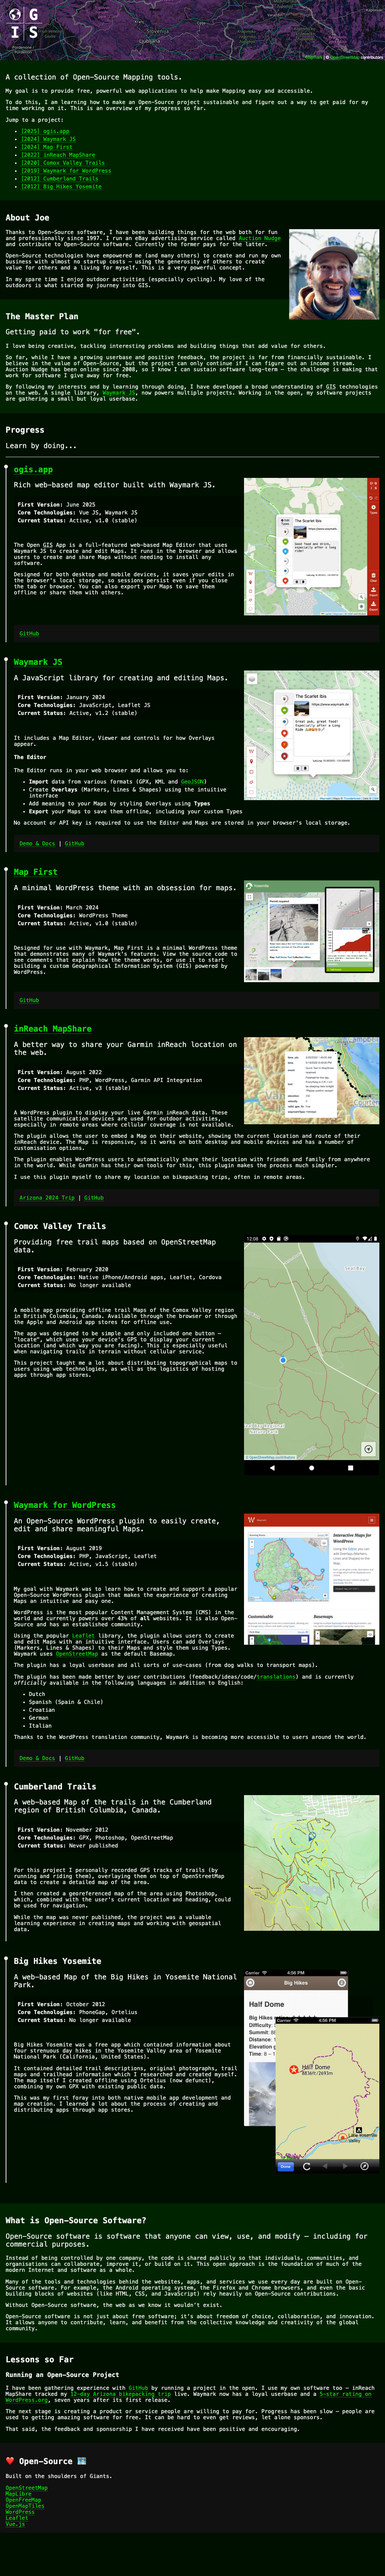
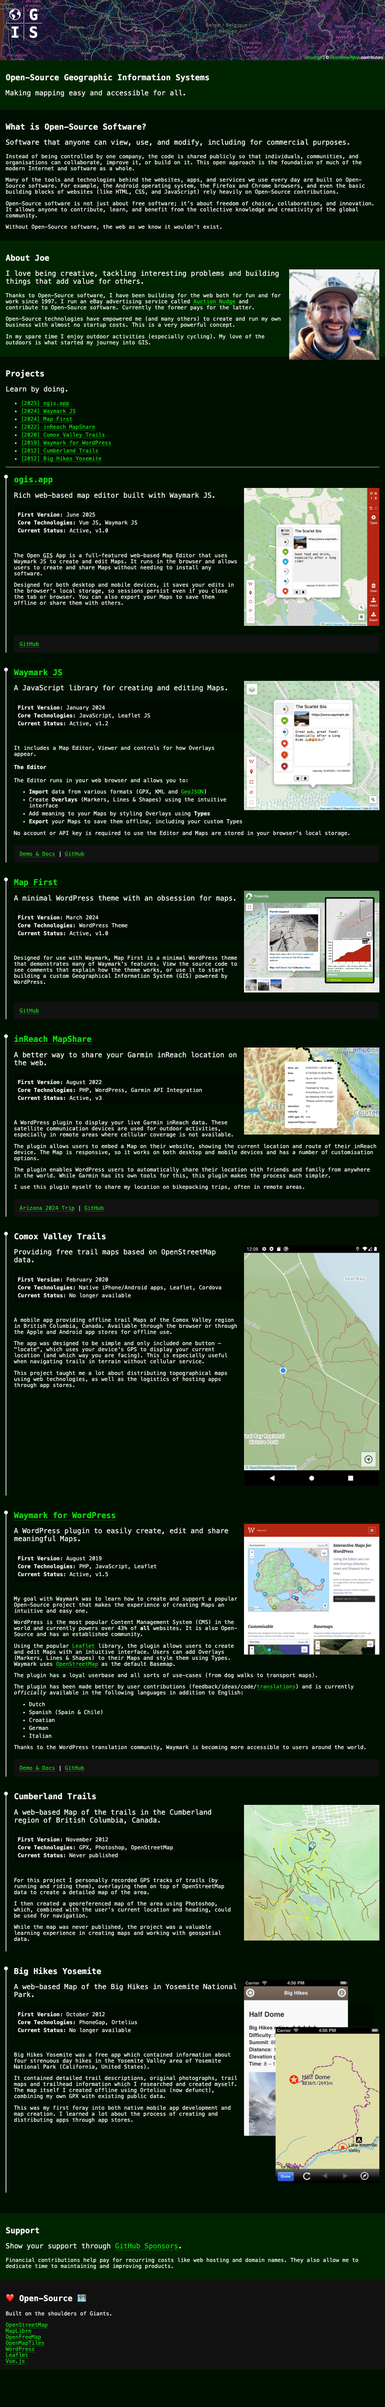
Home wording.

diff --git a/index.html b/index.html
@@ -46,20 +46,91 @@
 
       <main>
         <section>
-          <p class="lead">A collection of Open-Source Mapping tools.</p>
+          <h2>Open-Source Geographic Information Systems</h2>
+          <p class="lead">Making mapping easy and accessible for all.</p>
+        </section>
 
+        <section>
+          <h2>What is Open-Source Software?</h2>
+
+          <p class="lead">
+            Software that anyone can view, use, and modify, including for
+            commercial purposes.
+          </p>
           <p>
-            My goal is to provide free, powerful web applications to help make
-            Mapping easy and accessible.
+            Instead of being controlled by one company, the code is shared
+            publicly so that individuals, communities, and organisations can
+            collaborate, improve it, or build on it. This open approach is the
+            foundation of much of the modern Internet and software as a whole.
           </p>
 
           <p>
-            To do this, I am learning how to make an Open-Source project
-            sustainable and figure out a way to get paid for my time working on
-            it. This is an overview of my progress so far.
+            Many of the tools and technologies behind the websites, apps, and
+            services we use every day are built on Open-Source software. For
+            example, the Android operating system, the Firefox and Chrome
+            browsers, and even the basic building blocks of websites (like HTML,
+            CSS, and JavaScript) rely heavily on Open-Source contributions.
           </p>
 
-          <p>Jump to a project:</p>
+          <p>
+            Open-Source software is not just about free software; it’s about
+            freedom of choice, collaboration, and innovation. It allows anyone
+            to contribute, learn, and benefit from the collective knowledge and
+            creativity of the global community.
+          </p>
+
+          <p>
+            Without Open-Source software, the web as we know it wouldn’t exist.
+          </p>
+        </section>
+
+        <section>
+          <h2>About Joe</h2>
+
+          <p class="lead">
+            <img
+              class="right"
+              src="https://www.morehawes.ca/assets/images/Joe1BW.jpg"
+              alt="Joe Hawes"
+              width="240px"
+              height="240px"
+            />
+            I love being creative, tackling interesting problems and building
+            things that add value for others.
+          </p>
+
+          <p>
+            Thanks to Open-Source software, I have been building for the web
+            both for fun and for work since 1997. I run an eBay advertising
+            service called
+            <a href="https://www.auctionnudge.com/">Auction Nudge</a> and
+            contribute to Open-Source software. Currently the former pays for
+            the latter.
+          </p>
+
+          <p>
+            Open-Source technologies have empowered me (and many others) to
+            create and run my own business with almost no startup costs. This is
+            a very powerful concept.
+          </p>
+
+          <p>
+            In my spare time I enjoy outdoor activities (especially cycling). My
+            love of the outdoors is what started my journey into GIS.
+          </p>
+        </section>
+
+        <!-- 
+
+        ======================================
+        ============== PROGRESS ==============
+        ======================================
+
+        -->
+        <section id="progress">
+          <h2>Projects</h2>
+
+          <p class="lead">Learn by doing.</p>
 
           <ul>
             <li>
@@ -87,117 +158,7 @@
               <a href="#bighikesyosemite">[2012] Big Hikes Yosemite</a>
             </li>
           </ul>
-        </section>
 
-        <section>
-          <h2>What is Open-Source Software?</h2>
-
-          <p class="lead">
-            Open-Source software is software that anyone can view, use, and
-            modify. Including for commercial purposes.
-          </p>
-          <p>
-            Instead of being controlled by one company, the code is shared
-            publicly so that individuals, communities, and organizations can
-            collaborate, improve it, or build on it. This open approach is the
-            foundation of much of the modern Internet and software as a whole.
-          </p>
-
-          <p>
-            Many of the tools and technologies behind the websites, apps, and
-            services we use every day are built on Open-Source software. For
-            example, the Android operating system, the Firefox and Chrome
-            browsers, and even the basic building blocks of websites (like HTML,
-            CSS, and JavaScript) rely heavily on Open-Source contributions.
-          </p>
-
-          <p>
-            Without Open-Source software, the web as we know it wouldn’t exist.
-          </p>
-
-          <p>
-            Open-Source software is not just about free software; it’s about
-            freedom of choice, collaboration, and innovation. It allows anyone
-            to contribute, learn, and benefit from the collective knowledge and
-            creativity of the global community.
-          </p>
-        </section>
-
-        <section>
-          <h2>About Joe</h2>
-
-          <p>
-            <img
-              class="right"
-              src="https://www.morehawes.ca/assets/images/Joe1BW.jpg"
-              alt="Joe Hawes"
-              width="240px"
-              height="240px"
-            />
-            Thanks to Open-Source software, I have been building things for the
-            web both for fun and professionally since 1997. I run an eBay
-            advertising service called
-            <a href="https://www.auctionnudge.com/">Auction Nudge</a> and
-            contribute to Open-Source software. Currently the former pays for
-            the latter.
-          </p>
-
-          <p>
-            Open-Source technologies have empowered me (and many others) to
-            create and run my own business with almost no startup costs — using
-            the generosity of others to create value for others and a living for
-            myself. This is a very powerful concept.
-          </p>
-
-          <p>
-            In my spare time I enjoy outdoor activities (especially cycling). My
-            love of the outdoors is what started my journey into GIS.
-          </p>
-        </section>
-
-        <section>
-          <h2>The Master Plan</h2>
-
-          <p class="lead">Getting paid to work "for free".</p>
-
-          <p>
-            I love being creative, tackling interesting problems and building
-            things that add value for others.
-          </p>
-
-          <p>
-            So far, while I have a growing userbase and positive feedback, the
-            project is far from financially sustainable. I believe in the value
-            of Open-Source, but the project can only continue if I can figure
-            out an income stream. Auction Nudge has been online since 2008, so I
-            know I can sustain software long-term — the challenge is making that
-            work for software I give away for free.
-          </p>
-
-          <p>
-            By following my interests and by learning through doing, I have
-            developed a broad understanding of
-            <abbr title="Geographic Information System">GIS</abbr> technologies
-            on the web. A single library,
-            <a href="https://www.ogis.org/waymark-js/">Waymark JS</a>, now
-            powers multiple projects. Working in the open, my software projects
-            are gathering a small but loyal userbase.
-          </p>
-        </section>
-
-        <!-- 
-
-        ======================================
-        ============== PROGRESS ==============
-        ======================================
-
-        -->
-        <section id="progress">
-          <h2>Progress</h2>
-
-          <p class="lead">Learn by doing...</p>
-
-          <!-- START Timeline -->
           <div class="items">
             <!-- START ogis.app -->
             <article id="ogis-app">
@@ -226,7 +187,7 @@
                     </li>
                     <li>
                       <b>Current Status:</b>
-                      <span>Active, v1.0 (stable)</span>
+                      <span>Active, v1.0</span>
                     </li>
                   </ul>
                 </section>
@@ -279,7 +240,7 @@
                     <li><b>Core Technologies:</b> JavaScript, Leaflet JS</li>
                     <li>
                       <b>Current Status:</b>
-                      <span>Active, v1.2 (stable)</span>
+                      <span>Active, v1.2</span>
                     </li>
                   </ul>
                 </section>
@@ -355,7 +316,7 @@
                     </li>
                     <li>
                       <b>Current Status:</b>
-                      <span>Active, v1.0 (stable)</span>
+                      <span>Active, v1.0</span>
                     </li>
                   </ul>
                 </section>
@@ -408,7 +369,7 @@
                     </li>
                     <li>
                       <b>Current Status:</b>
-                      <span>Active, v3 (stable)</span>
+                      <span>Active, v3</span>
                     </li>
                   </ul>
                 </section>
@@ -423,7 +384,7 @@
                 </p>
 
                 <p>
-                  The plugin allows the user to embed a Map on their website,
+                  The plugin allows users to embed a Map on their website,
                   showing the current location and route of their inReach
                   device. The Map is responsive, so it works on both desktop and
                   mobile devices and has a number of customisation options.
@@ -432,7 +393,7 @@
                 <p>
                   The plugin enables WordPress users to automatically share
                   their location with friends and family from anywhere in the
-                  world. While Garmin has their own tools for this, this plugin
+                  world. While Garmin has its own tools for this, this plugin
                   makes the process much simpler.
                 </p>
 
@@ -503,8 +464,8 @@
 
                 <p>
                   This project taught me a lot about distributing topographical
-                  maps to users using web technologies, as well as the logistics
-                  of hosting apps through app stores.
+                  maps using web technologies, as well as the logistics of
+                  hosting apps through app stores.
                 </p>
               </main>
             </article>
@@ -526,15 +487,15 @@
                 />
 
                 <p class="lead">
-                  An Open-Source WordPress plugin to easily create, edit and
-                  share meaningful Maps.
+                  A WordPress plugin to easily create, edit and share meaningful
+                  Maps.
                 </p>
 
                 <section class="metadata">
                   <ul>
                     <li><b>First Version:</b> August 2019</li>
                     <li><b>Core Technologies:</b> PHP, JavaScript, Leaflet</li>
-                    <li><b>Current Status:</b> Active, v1.5 (stable)</li>
+                    <li><b>Current Status:</b> Active, v1.5</li>
                   </ul>
                 </section>
               </header>
@@ -542,8 +503,8 @@
               <main>
                 <p>
                   My goal with Waymark was to learn how to create and support a
-                  popular Open-Source WordPress plugin that makes the experience
-                  of creating Maps an intuitive and easy one.
+                  popular Open-Source project that makes the experience of
+                  creating Maps an intuitive and easy one.
                 </p>
 
                 <p>
@@ -700,33 +661,17 @@
         </section>
 
         <section>
-          <h2>Lessons so Far</h2>
+          <h2>Support</h2>
 
-          <h3>Running an Open-Source Project</h3>
-
-          <p>
-            I have been gathering experience with
-            <a href="https://github.com/OpenGIS">GitHub</a> by running a project
-            in the open. I use my own software too — inReach MapShare tracked my
-            <a href="https://www.morehawes.ca/trips/arizona-2024/"
-              >12-day Arizona bikepacking trip</a
-            >
-            live. Waymark now has a loyal userbase and a
-            <a href="https://wordpress.org/plugins/waymark/"
-              >5-star rating on WordPress.org</a
-            >, seven years after its first release.
+          <p class="lead">
+            Show your support through
+            <a href="https://github.com/sponsors/OpenGIS">GitHub Sponsors</a>.
           </p>
 
           <p>
-            The next stage is creating a product or service people are willing
-            to pay for. Progress has been slow — people are used to getting
-            amazing software for free. It can be hard to even get reviews, let
-            alone sponsors.
-          </p>
-
-          <p>
-            That said, the feedback and sponsorship I have received have been
-            positive and encouraging.
+            Financial contributions help pay for recurring costs like web
+            hosting and domain names. They also allow me to dedicate time to
+            maintaining and improving products.
           </p>
         </section>
       </main>
